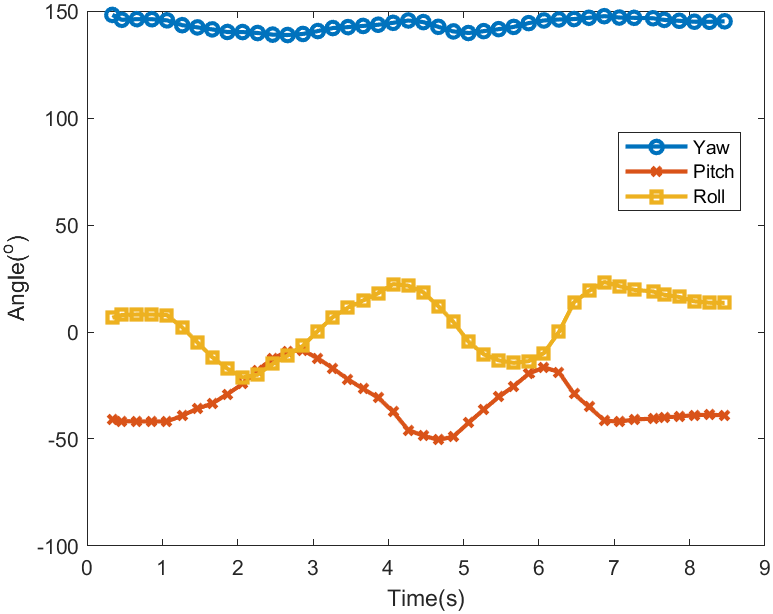
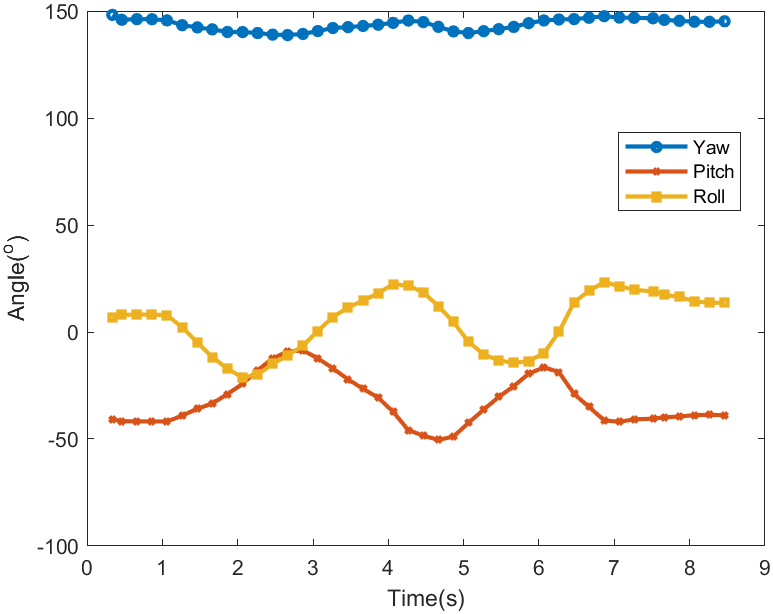
TCPClient

diff --git a/static/jetpack-code/001/plotlogdata.m b/static/jetpack-code/001/plotlogdata.m
@@ -1,7 +1,12 @@
 ypr = readtable('20241214085714.csv');
+
 plot(ypr.Time, ypr.Yaw, 'o-', ...
-    ypr.Time, ypr.Pitch, 'x-',...
-    ypr.Time, ypr.Roll, 's-', 'LineWidth', 2)
+    ypr.Time, ypr.Pitch, 'x-', ...
+    ypr.Time, ypr.Roll, 's-', ...
+    'LineWidth', 2, 'MarkerSize', 4);
+
 legend({'Yaw', 'Pitch', 'Roll'}, 'Location', 'Best');
-xlabel('Time(s)');ylabel('Angle(^o)');
-exportgraphics(gca, '../../jetpack-img/001/log.png');
+xlabel('Time(s)');
+ylabel('Angle(^o)');
+
+exportgraphics(gca, '../../jetpack-imgs/001/log.png');

diff --git a/content/posts/matlab/tcpip-instruments.md b/content/posts/matlab/tcpip-instruments.md
@@ -1,7 +1,7 @@
 +++
 title = 'Tcpip Instruments in Matlab中连接和调试采用TCP/IP协议的仪器'
 date = 2024-12-12T23:38:52+08:00
-draft = true
+draft = false
 mathjax = false
 categories = ['matlab', 'instrument']
 tags = ['matlab', 'methods', 'properties', 'tcpipclient', 'echotcpip', 'writeline', 'readline', 'configureTerminator', 'configureCallback']
@@ -182,7 +182,7 @@ clear t;
 
 ### 回调函数
 
-我们可以通过`configureCallback`方法设置回调函数，当有数据到达时，会调用这个回调函数。此外，回调函数有3种类型：
+我们可以通过`configureCallback`方法设置回调函数，当有数据到达时，会调用这个回调函数。此外，回调函数有3种状态：
 
 - `byte`：当有字节到达时调用。
 - `terminator`：当有终止符到达时调用。
@@ -196,12 +196,15 @@ myCallback = @(src, ~)disp(readline(src));
 
 configureCallback(t, "terminator", myCallback);
 
-pause(1);
 writeline(t, "Hello, world!");
+pause(1);
 
 clear t;
 ```
 
+当然要记得先打开8880端口的回声服务器。
+
+通过回调函数，就能设置当有数据到达时，自动调用这个函数。这在某些场景下是非常有用的。
 
 ## 总结
 
